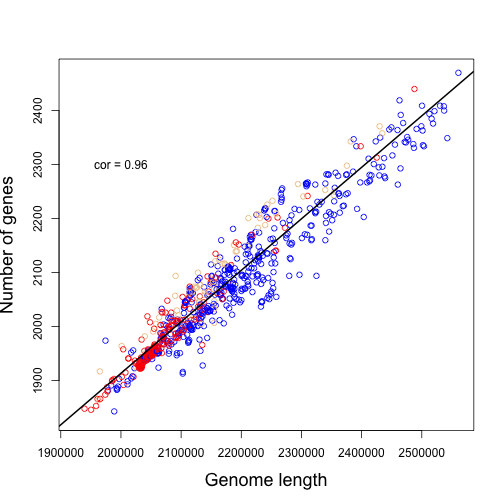
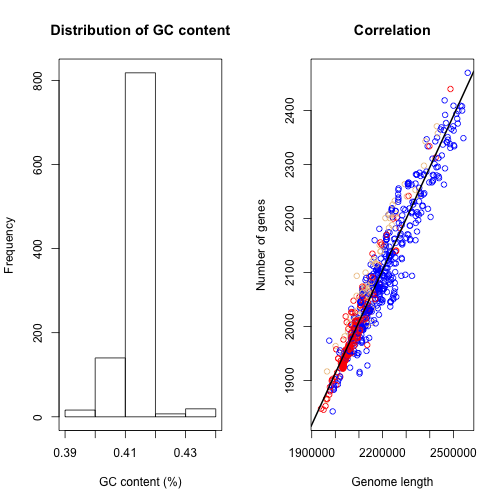
added plot names in slides

diff --git a/index.html b/index.html
@@ -34,7 +34,7 @@ University of Cambridge
   <h3>Introduction</h3>
   <ul>
 <li>Graphs are a powerful way to present data and results in a concise manner.</li>
-<li>A graph is more readily understandable than words and numbers.</li>
+<li>Graphs are more readily understandable than words and numbers.</li>
 <li>Good graphs are useful in examining data to get idea about the patterns that may exist.</li>
 <li>Graphs can also aid in selecting correct statistical analysis.
 <br></br>
@@ -47,10 +47,14 @@ University of Cambridge
   <h3>Graphical analysis in R</h3>
   <ul>
 <li>Graphical analysis in R is done by calling a series of graphics functions.</li>
-<li>These functions produce either a complete plot, or</li>
+<li>These functions produce either:
+
+<ul>
+<li>a complete plot, or</li>
 <li>adds some output to an existing plot.</li>
-<li>R graphics follows a <strong>painter&#39;s model</strong></li>
-<li>Sophisticated packages are developed: <code>ggplot2</code>, <code>Lattice</code>, <code>Leaflet</code> </li>
+</ul></li>
+<li>R graphics follows a <strong>painter&#39;s model</strong>.</li>
+<li>Sophisticated packages are developed <em>e.g.</em> <code>ggplot2</code>.</li>
 </ul>
 
   
@@ -101,7 +105,7 @@ head(strainInfo,10)
   
 </section>
 <section class='' data-state='' id='slide-7'>
-  <h3>Strains by Country of isolation</h3>
+  <h3>Strains by Country of isolation (Pie chart)</h3>
   <pre><code class="r">pie.data &lt;- table(strainInfo$Country)
 lbls &lt;- paste(names(pie.data), &quot;\n&quot;, pie.data, sep=&quot;&quot;)
 pie(pie.data, labels = lbls, cex = 1.5, cex.main = 1.5,
@@ -113,10 +117,10 @@ pie(pie.data, labels = lbls, cex = 1.5, cex.main = 1.5,
   
 </section>
 <section class='' data-state='' id='slide-8'>
-  <h3>Distribution of GC content</h3>
-  <pre><code class="r">hist(strainInfo$GC, breaks = 5,
+  <h3>Distribution of GC content (Histogram)</h3>
+  <pre><code class="r">hist(strainInfo$GC, breaks = 5, cex = 1.5,
      main = &#39;Distribution of GC content&#39;,
-     xlab = &#39;GC content (%)&#39;,
+     xlab = &#39;GC content (%)&#39;, lwd = 2,
      cex.lab = 1.5, cex.main = 1.5, cex.axis = 1.2)
 </code></pre>
 
@@ -125,7 +129,7 @@ pie(pie.data, labels = lbls, cex = 1.5, cex.main = 1.5,
   
 </section>
 <section class='' data-state='' id='slide-9'>
-  <h3>Disease causing strains have fewer genes??</h3>
+  <h3>Disease causing strains have fewer genes?? (Boxplot)</h3>
   <pre><code class="r">boxplot(strainInfo$CDS ~ strainInfo$Phenotype, cex.lab = 1.3, cex.main = 1.5, cex.axis = 1.3,
         ylab=&#39;Number of genes&#39;, xlab=&#39;Phenotype&#39;,
         main=&#39;Number of genes  by phenotypes&#39;, col=c(&quot;antiquewhite3&quot;,&quot;burlywood2&quot;,&quot;gold3&quot;))
@@ -136,7 +140,7 @@ pie(pie.data, labels = lbls, cex = 1.5, cex.main = 1.5,
   
 </section>
 <section class='' data-state='' id='slide-10'>
-  <h3>Systemic disease causing strains have fewer genes</h3>
+  <h3>Systemic strains have fewer genes (Violin plot)</h3>
   <pre><code class="r">vioplot(x1, x2, x3, cex.lab = 1.3, cex.main = 1.5, cex.axis = 1.3, 
         names=c(&quot;Non-Clinical&quot;,&quot;Respiratory&quot;,&quot;Sys-Brain&quot;),
         col=c(&quot;antiquewhite3&quot;,&quot;burlywood2&quot;,&quot;gold3&quot;),main=&#39;Number of genes by phenotypes&#39;)
@@ -150,7 +154,7 @@ pie(pie.data, labels = lbls, cex = 1.5, cex.main = 1.5,
   
 </section>
 <section class='' data-state='' id='slide-11'>
-  <h3>Genome length is correlated with number of genes</h3>
+  <h3>Genome length is correlated with number of genes (Scatter plot)</h3>
   <pre><code class="r">plot(strainInfo$GenomeSize,strainInfo$CDS, cex.lab = 1.5,
      col = c(&quot;blue&quot;,&quot;burlywood2&quot;,&quot;red&quot;)[strainInfo$Phenotype],
      xlab = &#39;Genome length&#39;, ylab = &#39;Number of genes&#39;)
@@ -162,17 +166,7 @@ abline(lm(strainInfo$CDS ~ strainInfo$GenomeSize), col = &#39;black&#39;, lwd = 
   
 </section>
 <section class='' data-state='' id='slide-12'>
-  <h3>Genome length is correlated with number of genes</h3>
-  <pre><code class="r">correlation &lt;- round(cor(strainInfo$GenomeSize, strainInfo$CDS),2)
-text(2e6, 2300, paste(&#39;cor = &#39;,correlation,sep=&#39;&#39;))
-</code></pre>
-
-<p><img src="assets/fig/unnamed-chunk-10-1.png" alt="plot of chunk unnamed-chunk-10"></p>
-
-  
-</section>
-<section class='' data-state='' id='slide-13'>
-  <h3>Bacterial population structure and phenotypes</h3>
+  <h3>Bacterial population structure and phenotypes (Stacked barplot)</h3>
   <pre><code class="r">counts &lt;- table(strainInfo$Phenotype,strainInfo$Population)
 barplot(counts, main = &quot;Distribution of strains&quot;, cex.lab = 1.5,
         xlab = &quot;Bacterial population&quot;, cex.main = 1.5,
@@ -180,18 +174,18 @@ barplot(counts, main = &quot;Distribution of strains&quot;, cex.lab = 1.5,
 abline(h = 0)
 </code></pre>
 
-<p><img src="assets/fig/unnamed-chunk-11-1.png" alt="plot of chunk unnamed-chunk-11"></p>
+<p><img src="assets/fig/unnamed-chunk-9-1.png" alt="plot of chunk unnamed-chunk-9"></p>
+
+  
+</section>
+<section class='' data-state='' id='slide-13'>
+  <h3>Multiple plots in a grid</h3>
+  <p><img src="assets/fig/unnamed-chunk-10-1.png" alt="plot of chunk unnamed-chunk-10"></p>
 
   
 </section>
 <section class='' data-state='' id='slide-14'>
-  <h3>Multiple plots in a grid</h3>
-  <p><img src="assets/fig/unnamed-chunk-12-1.png" alt="plot of chunk unnamed-chunk-12"></p>
-
-  
-</section>
-<section class='' data-state='' id='slide-15'>
-  <h3>Multiple plots in a grid</h3>
+  <h3>Multiple plots in a grid (R code)</h3>
   <pre><code class="r">par(mfrow=c(1,2))
 
 hist(strainInfo$GC, breaks = 5,
@@ -210,8 +204,8 @@ abline(lm(strainInfo$CDS ~ strainInfo$GenomeSize), col = &#39;black&#39;, lwd = 
 
   
 </section>
-<section class='' data-state='' id='slide-16'>
-  <h3>Saving plots in files</h3>
+<section class='' data-state='' id='slide-15'>
+  <h3>Saving plots in files (R code)</h3>
   <pre><code class="r">png(&#39;MyImage.png&#39;)
 
 par(mfrow=c(1,2))
@@ -238,18 +232,18 @@ dev.off()
 
   
 </section>
-<section class='' data-state='' id='slide-17'>
+<section class='' data-state='' id='slide-16'>
   <h3>Summary</h3>
   <ul>
-<li>R is free, open source platform for statistical and graphical analysis.</li>
-<li>R scripts run on Windows, Linux and Mac OS X.</li>
+<li>R is a free, open source platform for statistical and graphical analysis.</li>
+<li>Scripts written in R can run on Windows, Linux and Mac OS X.</li>
 <li>Graphs produced by R are reproducible.</li>
-<li>Has a large user space.</li>
+<li>R Has a large user space.</li>
 </ul>
 
   
 </section>
-<section class='' data-state='' id='slide-18'>
+<section class='' data-state='' id='slide-17'>
   <h3>Additional websites</h3>
   <ul>
 <li>Cookbook for R  - <a href="http://www.cookbook-r.com">http://www.cookbook-r.com</a></li>
@@ -260,7 +254,7 @@ dev.off()
 
   
 </section>
-<section class='' data-state='' id='slide-19'>
+<section class='' data-state='' id='slide-18'>
   <h2>Thank you !!</h2>
   
   

diff --git a/index.md b/index.md
@@ -29,7 +29,7 @@ University of Cambridge
 ### Introduction
   
 - Graphs are a powerful way to present data and results in a concise manner.
-- A graph is more readily understandable than words and numbers.
+- Graphs are more readily understandable than words and numbers.
 - Good graphs are useful in examining data to get idea about the patterns that may exist.
 - Graphs can also aid in selecting correct statistical analysis.
 <br></br>
@@ -40,10 +40,11 @@ University of Cambridge
 ### Graphical analysis in R
 
 - Graphical analysis in R is done by calling a series of graphics functions.
-- These functions produce either a complete plot, or
-- adds some output to an existing plot.
-- R graphics follows a **painter's model**
-- Sophisticated packages are developed: `ggplot2`, `Lattice`, `Leaflet` 
+- These functions produce either:
+    - a complete plot, or
+    - adds some output to an existing plot.
+- R graphics follows a **painter's model**.
+- Sophisticated packages are developed *e.g.* `ggplot2`.
 
 ---
 
@@ -93,7 +94,7 @@ head(strainInfo,10)
 
 ---
 
-### Strains by Country of isolation
+### Strains by Country of isolation (Pie chart)
 
 
 ```r
@@ -108,13 +109,13 @@ pie(pie.data, labels = lbls, cex = 1.5, cex.main = 1.5,
 ---  
 
 
-### Distribution of GC content
+### Distribution of GC content (Histogram)
 
 
 ```r
-hist(strainInfo$GC, breaks = 5,
+hist(strainInfo$GC, breaks = 5, cex = 1.5,
      main = 'Distribution of GC content',
-     xlab = 'GC content (%)',
+     xlab = 'GC content (%)', lwd = 2,
      cex.lab = 1.5, cex.main = 1.5, cex.axis = 1.2)
 ```
 
@@ -122,7 +123,7 @@ hist(strainInfo$GC, breaks = 5,
 
 ---
   
-### Disease causing strains have fewer genes??
+### Disease causing strains have fewer genes?? (Boxplot)
 
 
 ```r
@@ -135,7 +136,7 @@ boxplot(strainInfo$CDS ~ strainInfo$Phenotype, cex.lab = 1.3, cex.main = 1.5, ce
 
 ---
 
-### Systemic disease causing strains have fewer genes
+### Systemic strains have fewer genes (Violin plot)
 
 
 
@@ -154,7 +155,7 @@ vioplot(x1, x2, x3, cex.lab = 1.3, cex.main = 1.5, cex.axis = 1.3,
 
 ---
 
-### Genome length is correlated with number of genes
+### Genome length is correlated with number of genes (Scatter plot)
 
 
 ```r
@@ -169,20 +170,7 @@ abline(lm(strainInfo$CDS ~ strainInfo$GenomeSize), col = 'black', lwd = 2)
 
 ---
 
-### Genome length is correlated with number of genes
-
-
-```r
-correlation <- round(cor(strainInfo$GenomeSize, strainInfo$CDS),2)
-text(2e6, 2300, paste('cor = ',correlation,sep=''))
-```
-
-
-![plot of chunk unnamed-chunk-10](assets/fig/unnamed-chunk-10-1.png)
-
----
-
-### Bacterial population structure and phenotypes
+### Bacterial population structure and phenotypes (Stacked barplot)
 
 
 ```r
@@ -193,18 +181,18 @@ barplot(counts, main = "Distribution of strains", cex.lab = 1.5,
 abline(h = 0)
 ```
 
-![plot of chunk unnamed-chunk-11](assets/fig/unnamed-chunk-11-1.png)
+![plot of chunk unnamed-chunk-9](assets/fig/unnamed-chunk-9-1.png)
 
 ---
 
 ### Multiple plots in a grid
 
-![plot of chunk unnamed-chunk-12](assets/fig/unnamed-chunk-12-1.png)
+![plot of chunk unnamed-chunk-10](assets/fig/unnamed-chunk-10-1.png)
 
 
 ---
 
-### Multiple plots in a grid
+### Multiple plots in a grid (R code)
 
 
 ```r
@@ -226,7 +214,7 @@ abline(lm(strainInfo$CDS ~ strainInfo$GenomeSize), col = 'black', lwd = 2)
 
 ---
 
-### Saving plots in files
+### Saving plots in files (R code)
 
 
 ```r
@@ -259,10 +247,10 @@ dev.off()
 
 ### Summary
 
-- R is free, open source platform for statistical and graphical analysis.
-- R scripts run on Windows, Linux and Mac OS X.
+- R is a free, open source platform for statistical and graphical analysis.
+- Scripts written in R can run on Windows, Linux and Mac OS X.
 - Graphs produced by R are reproducible.
-- Has a large user space.
+- R Has a large user space.
 
 ---
 
